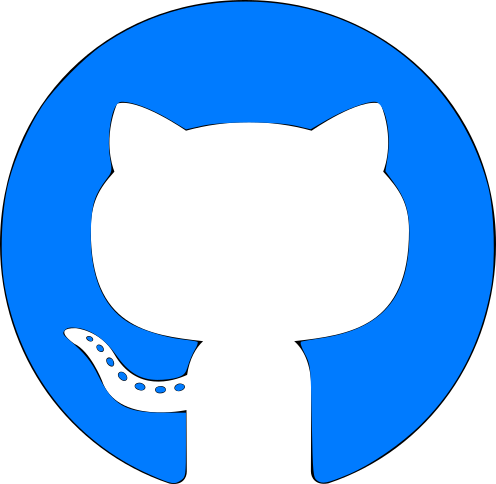
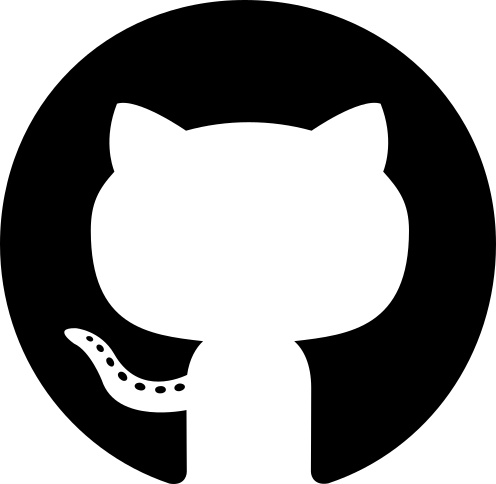
Page setted
Page is appearing fine right now, changed images once more, added links and popup.

diff --git a/main.py b/main.py
@@ -2,6 +2,9 @@
 from kivy.app import App
 from kivy.lang import Builder
 from kivy.core.window import Window
+from kivy.uix.popup import Popup
+from kivy.uix.label import Label
+from kivy.core.clipboard import Clipboard
 from mycv import screens
 from mycv import buttons
 # end of imports
@@ -29,6 +32,11 @@ class MainApp (App):
 
     def alternar (self, id):
         self.root.ids ["manager"].current = id
+
+    def copiar (self):
+        Clipboard.copy ("maurylukas@yahoo.com")
+        Popup (title = "", content = Label (text = "E-mail copied:\nmaurylukas@yahoo.com", halign = "center"),
+               size_hint = (0.3, 0.3), background_color = (0, 0, 0, 0), separator_color = (0, 0, 0, 0)).open ()
 
 
 # running application
